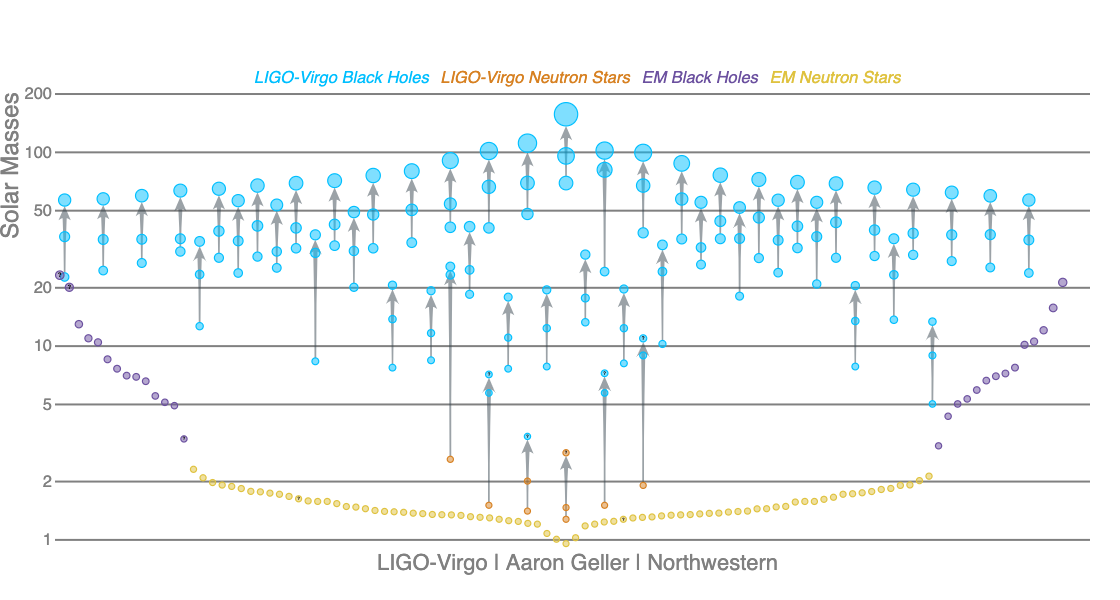
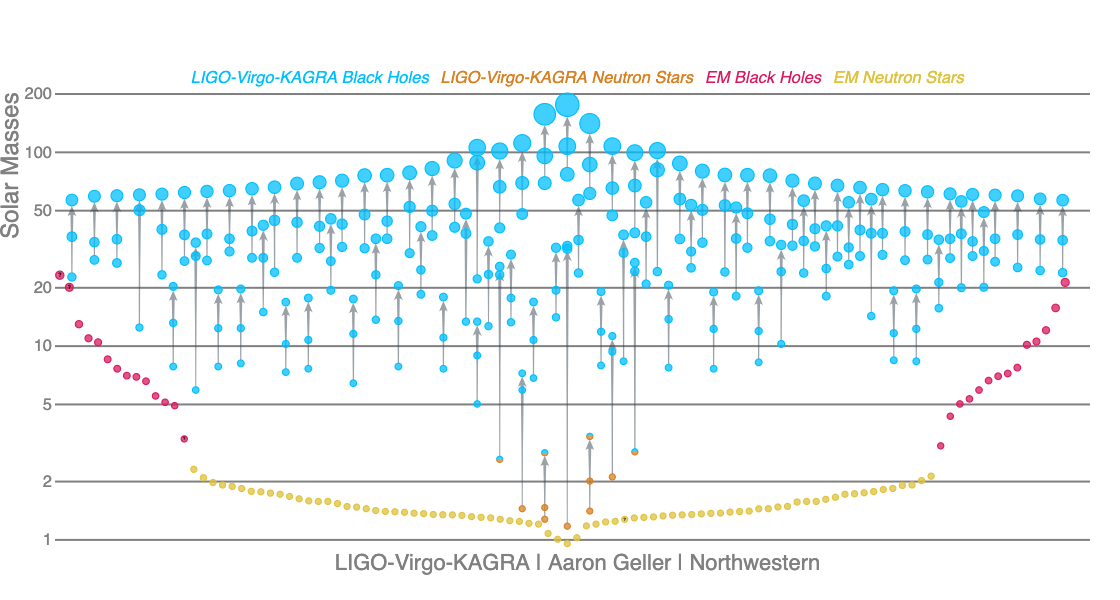
Through line 325, figure 2

diff --git a/RMPreview.tex b/RMPreview.tex
@@ -116,7 +116,7 @@
 \affiliation[4]{organization={kW Engineering}, city={Oakland}, state={California}, postcode={94612}, \country={USA}}
 
 \begin{abstract}
-The LIGO and Virgo detectors have directly observed gravitational waves from mergers of pairs of stellar-mass black holes, along with a smaller number of mergers involving neutron stars.  These observations raise the hope that compact object mergers could be used as a probe of stellar and binary evolution, and perhaps of stellar dynamics. This colloquium-style article summarises the existing observations, describes theoretical predictions for formation channels of merging stellar-mass black-hole binaries along with their rates and observable properties, and presents some of the prospects for gravitational-wave astronomy.
+The LIGO and Virgo detectors have directly observed gravitational waves from mergers of pairs of stellar-mass black holes, along with a smaller number of mergers involving neutron stars.  These observations raise the hope that compact object mergers could be used as a probe of stellar and binary evolution, and perhaps of stellar dynamics. This colloquium-style article summarises the existing observations, describes theoretical predictions for formation channels of merging stellar-mass black-hole binaries along with their rates and observable properties, and presents some prospects for gravitational-wave astronomy.
 \end{abstract}
 
 %\begin{keyword}
@@ -150,7 +150,7 @@ We summarise the existing observations of merging binary black holes and closely
 \subsubsection{The confirmed detections to date}
 During its first observing run, lasting from September of 2015 through January of 2016, the advanced LIGO detector network observed three signals from the mergers of binary black holes:  GW150914 \citep{GW150914}, GW151226 \citep{GW151226} and GW151012 \citep{GW150914:rates,BBH:O1}.  During the second observing run, lasting with some interruptions from November 2016 through August 2017, three further confident binary black hole detections were announced: GW170104 \citep{GW170104},  GW170608 \citep{GW170608}, and GW170814 \citep{GW170814}, the last of these with the participation of the Virgo gravitational-wave observatory \citep{AdvVirgo}.  The first half of the third observing run, which lasted from April to October of 2019, saw detections of nearly 40 binary black hole mergers \citep{GWTC2,Abbott:2021-GWTC-2-1}, among which GW190412 \citep{GW190412}, GW190814 \citep{GW190814}, GW190521 \citep{GW190521} stood out for their mass and mass ratio measurements (see section \ref{sec:GWevents}).  Approximately 30 more binary black holes (the exact numbers here and above depend on the assumed threshold for confident detections) were observed during the second half of the third observing run, from November 2019 through March 2020 \citep{GWTC3}.  Additional candidates were found by search pipelines external to the LIGO-Virgo-KAGRA collaborations in LIGO-Virgo public data \citep{Nitz:2019,Nitz:2021,Venumadhav:2019,Venumadhav:2020}.  
 
-Meanwhile, the observation of gravitational waves from the binary neutron star merger GW170817 \citep{GW170817} was followed up by an unprecedented campaign of electromagnetic observations, leading to detections of a short gamma ray burst, optical kilonova, and an afterglow spanning from radio through X-ray wavelengths \citep{GW170817:GRB,GW170817:MMA}.  Another confident detection of a binary neutron star merger, GW190425 \citep{GW190425}, as well as two mergers of neutron stars with black holes,  GW200105 and GW200115 \citep{GW200105}, did not yield electromagnetic counterparts.  
+Meanwhile, the detection of gravitational waves from the binary neutron star merger GW170817 \citep{GW170817} was followed up by an unprecedented campaign of electromagnetic observations, leading to detections of a short gamma ray burst, optical kilonova, and an afterglow spanning from radio through X-ray wavelengths \citep{GW170817:GRB,GW170817:MMA}.  Another confident detection of a binary neutron star merger, GW190425 \citep{GW190425}, as well as two mergers of neutron stars with black holes,  GW200105 and GW200115 \citep{GW200105}, did not yield electromagnetic counterparts.  
 We shall focus on binary black holes for the remainder of this article.
 
 \subsubsection{Information encoded in gravitational-wave signals}
@@ -165,14 +165,14 @@ The masses of the black-hole binaries observed to date are shown in figure \ref{
 \begin{figure}
 	\centering
 	\includegraphics[width=0.99\textwidth]{Graveyard.png}
-	\caption{The masses (in solar masses, vertical axis) of black holes observed as gravitational-wave sources and reported in the GWTC-2 catalog (blue), as well as masses of black holes in X-ray binaries (purple).  Galactic neutron stars observed as radio pulsars (yellow) and the neutron star candidates in merging compact binaries (orange) appear at the bottom of the figure.  Merger product masses are shown for gravitational-wave detections. Placement on the horizontal axis is arbitrary.  Error bars are indicative of the measurement uncertainty.  Figure courtesy of Aaron Geller, Northwestern University and LIGO-Virgo collaborations.}\label{fig:BHmasses} 
+	\caption{The masses (in solar masses, vertical axis) of black holes observed as gravitational-wave sources and reported in the GWTC-3 catalog (blue), as well as masses of black holes in X-ray binaries (red).  Galactic neutron stars observed as radio pulsars (yellow) and the neutron star candidates in merging compact binaries (orange) appear at the bottom of the figure.  Merger product masses are shown for gravitational-wave detections. Placement on the horizontal axis is arbitrary.  Figure courtesy of Aaron Geller, Northwestern University and LIGO-Virgo-KAGRA collaborations.}\label{fig:BHmasses} 
 \end{figure}
 
-\textbf{Masses:} The individual black-hole masses span a range from $\simeq 2.6 M_\odot$ (assuming the lower-mass object in GW190814 is a black hole rather than a neutron star) to $\simeq 80 M_\odot$ for GW190521 (or more, see \cite{FishbachHolz:2020,NitzCapano:2021}).  There is a significant selection bias  toward detecting more massive systems, because sensitivity to gravitational waves from binary mergers depends on the system mass.  The gravitational-wave amplitude, and hence the maximum (horizon) distance at which a source is detectable, scales as $M_c^{5/6}$ for inspiral-dominated signals. The surveyed volume therefore scales as $M_c^{2.5}$.  Once selection effects are accounted for, the mass distribution for the more massive black hole appears to be consistent with a power-law $p(M) \propto M^{-2.6}$, reminiscent of the stellar initial mass function \citep{Salpeter:1955}, with an additional peak at around $33 M_\odot$.  The vast majority of merging binary black holes, $\approx 97\%$, have both companion masses below $45 M_\odot$ \citep{GWTC2:pop}.   
+\textbf{Masses:} The individual black-hole masses span a range from $\simeq 2.6 M_\odot$ (assuming the lower-mass object in GW190814 is a black hole rather than a neutron star \citep{GW190814}) to $\simeq 80 M_\odot$ for GW190521 \citep{GW190521} (or more, see \cite{FishbachHolz:2020,NitzCapano:2021}) and GW200220\_061928 \citep{GWTC3}.  There is a significant selection bias  toward detecting more massive systems, because sensitivity to gravitational waves from binary mergers depends on the system mass.  The gravitational-wave amplitude, and hence the maximum (horizon) distance at which a source is detectable, scales as $M_c^{5/6}$ for inspiral-dominated signals. The surveyed volume therefore scales as $M_c^{2.5}$.  Once selection effects are accounted for, the mass distribution for the more massive black hole appears to be consistent with a power-law $p(M) \propto M^{-3.4}$, reminiscent of the stellar initial mass function \citep{Salpeter:1955}, with an additional peak at around $34 M_\odot$.  The vast majority of merging binary black holes, $\approx 99\%$, have both companion masses below $45 M_\odot$ \citep{GWTC3:pop}.   
 
-The vast majority of observed merging binary black holes are consistent with having equal-mass components, though the poorly measured mass ratios could still be as extreme as $4:1$ in some cases.  Two observed events, GW190412 with a mass ratio of $3:1$ \citep{GW190412}, and GW190814 with a mass ratio of $9:1$ \citep{GW190814}, are definitely inconsistent with equal masses.  
+Most observed merging binary black holes are consistent with having equal-mass components, though the poorly measured mass ratios span a very broad range in some cases.  Several observed events, such as GW190412 with a mass ratio of $3:1$ \citep{GW190412}, and GW190814 with a mass ratio of $9:1$ \citep{GW190814}, are definitely inconsistent with equal masses.  
 
-\textbf{Black-Hole Spins:} Individual black-hole spins are difficult to measure precisely with gravitational waves.  Most observed mergers are consistent with negligible spins, but some events show evidence of non-zero `effective spin' $\chi_\textrm{eff}$ --- the mass-weighted dimensionless spin along the direction of the orbital angular momentum.  The spin distribution is a topic of active ongoing discussion \citep[e.g.,][]{GWTC2:pop,Roulet:2021,Callister:2021,Galaudage:2021}.  In particular, \citet{Galaudage:2021} conclude that $\sim 80\%$ of merging binary black holes have negligible spins on both components (consistent with zero), while the remaining 20\% have positive and preferentially aligned spins, with no observed events displaying a definite negative $\chi_\textrm{eff}$.  The degree of precession due to spin-orbit misalignment is also unclear; there may be some evidence for it in individual events, such as GW190521 \citep{GW190521}, though other explanations for its signal morphology (e.g., eccentricity, see below) have been proposed.
+\textbf{Black-Hole Spins:} Individual black-hole spins are difficult to measure precisely with gravitational waves.  Most observed mergers are consistent with negligible spins, but some events show evidence of non-zero `effective spin' $\chi_\textrm{eff}$ --- the mass-weighted dimensionless spin along the direction of the orbital angular momentum.  The spin distribution is a topic of active ongoing discussion \citep[e.g.,][]{GWTC2:pop,Roulet:2021,Callister:2021,Galaudage:2021,GWTC3:pop}.  In particular, \citet{Galaudage:2021} conclude that $\sim 80\%$ of merging binary black holes have negligible spins on both components (consistent with zero), while the remaining 20\% have positive and preferentially aligned spins, with no observed events displaying a definite negative $\chi_\textrm{eff}$.  The degree of precession due to spin-orbit misalignment is also unclear; there may be some evidence for it in individual events, such as GW190521 \citep{GW190521}, though other explanations for its signal morphology (e.g., eccentricity, see below) have been proposed.
 
 \textbf{Distances and Sky Locations:} All of the observed binary black hole signals came from median redshifts between $z\sim 0.05$ and $z \sim 0.9$ (distances of around 250 Mpc to 6 Gpc), consistent with the detector sensitivity during the first three observing runs of advanced LIGO \citep{GWTC3}.  With just two operational detectors, LIGO Hanford and LIGO Livingston, for all events prior to GW170814, sources could only be localised to 90\% credible regions spanning hundreds to more than a thousand square degrees on the sky.  The participation of the Virgo instrument in the observation of GW170814 reduced the sky region to only 60 deg$^2$ \citep{GW170814}.   The best-localised binary black hole mergers have 90\% credible sky localisations of only $\approx 20$ deg$^2$ \citep{GWTC2}.  Nonetheless, associations with specific host galaxies are impossible for all observed binary black hole mergers.  
 
@@ -193,30 +193,31 @@ A wide variety of electromagnetic observations inform our understanding of the e
 \item Galactic binary radio pulsars \citep[e.g.,][]{Tauris:2017};
 \item short gamma-ray bursts \citep[e.g.,][]{Berger:2014};
 \item supernovae and long gamma-ray bursts \citep[e.g.,][]{Cantiello:2007,Szecsi:2017,Bavera:2021};
-\item X-ray binaries \citep[e.g.,][]{TaurisvdH:2006}.
+\item X-ray binaries \citep[e.g.,][]{TaurisvdH:2006};
+\item black holes in detached binaries \citep[e.g.,][]{Thompson:2019} and microlensing observations \citep[e.g.,][]{WyrzykowskiMandel:2019}.
 \end{itemize}
-We first focus on X-ray binaries, the type of binary system with the closest connection to merging binary black holes, although only a small minority of black-hole X-ray binaries will ultimately evolve into merging black holes \citep[e.g.,][]{CygnusX3:2012,Neijssel:2020CygX1}. Black-hole X-ray binaries consist of a star transferring mass onto a black-hole companion, leading to the emission of X-ray radiation from the accretion disk surrounding the black hole.  We then discuss detached black-hole binaries, black-hole microlensing observations, and selection effects.
+We first focus on X-ray binaries, the type of binary system with the closest connection to merging binary black holes, although only a small minority of black-hole X-ray binaries will ultimately evolve into merging black holes \citep[e.g.,][]{CygnusX3:2012,Neijssel:2020CygX1}. We then discuss detached black-hole binaries, black-hole microlensing observations, and selection effects.
 
 \subsubsection{X-ray binaries}\label{sec:XRB}
 
-X-ray binaries containing accreting black holes can be divided into two categories, low-mass and high-mass, in reference to the mass of the black hole's companion star. The accretion process differs between the two types: in low-mass X-ray binaries, the tidal field of the black hole is causing mass to stream from the companion on to the black hole in the process known as Roche-lobe overflow, while in high-mass X-ray binaries, the black hole accretes only a fraction of the material (stellar wind) driven off the companion's surface.
+Black-hole X-ray binaries consist of a star transferring mass onto a black-hole companion, leading to the emission of X-ray radiation from the accretion disk surrounding the black hole.  X-ray binaries containing accreting black holes can be divided into two categories, low-mass and high-mass, in reference to the mass of the black hole's companion star. The accretion process differs between the two types: in low-mass X-ray binaries, the tidal field of the black hole is causing mass to stream from the companion on to the black hole in the process known as Roche-lobe overflow, while in high-mass X-ray binaries, the black hole accretes only a fraction of the material (stellar wind) driven off the companion's surface.
 
 \textbf{Black-Hole Masses:} 
 Until recently, black-hole X-ray binaries with dynamical mass measurements provided the only secure measurements of black-hole masses other than the gravitational-wave observations described above, though this is now changing thanks to observations of detached binaries and microlensing data (see section \ref{sec:lensing}).  \citet{Ozel:2010} and \citet{Farr:2011} summarise the mass distribution of black-hole X-ray binaries.  They find a distribution which ranges from $> 20\, M_\odot$ for the heaviest high-mass X-ray binaries to 4 or 5 solar masses for the lightest low-mass X-ray binaries, with a possible mass gap between neutron-star and black-hole masses, though see \cite{Kreidberg:2012} for possible biases in mass measurements of some low-mass X-ray binaries and section \ref{sec:lensing} for evolutionary selection effects.  The uncertainty regarding the radial velocity measurements in high-mass X-ray binaries such as IC10 X-1 \citep{Laycock:2015} mean that the most massive confirmed stellar-mass black hole is Cygnus X-1, with a dynamical mass measurement of $21 \pm 2\, M_\odot$ \citep{MillerJones:2021}.   The measured masses of black holes in X-ray binaries are sketched in figure \ref{fig:BHmasses}, along with the masses of the observed gravitational-wave sources.  This figure does not include the speculative but potentially very exciting evidence for intermediate-mass black holes \citep{MillerColbert:2004,Greene:2019,Paynter:2021}; if few-hundred solar-mass black holes generically exist in globular clusters, they will substitute into merging binaries and ultimately be observable as gravitational-wave sources \citep[e.g.,][]{Mandel:2008,IMBBH:O1}.
 
-\textbf{Black-Hole Spin Magnitudes:} Black-hole X-ray binaries also provide an opportunity for measuring black-hole spins \citep[see][for recent reviews]{MillerMiller:2015,Middleton:2016}.  Continuum fitting of the X-ray flux from the accretion disk and iron K-$\alpha$ line fits to the disk reflection profile can both be used to infer the location of the inner edge of the disk, which is assumed to correspond to the radius of the innermost stable circular orbit, a sensitive function of black-hole spin.  Quasi-periodic oscillations also have the potential to provide spin measurements.  Unfortunately, the underlying physical mechanisms are not fully understood at present, and the inferred spins may suffer from significant systematics \citep[e.g.,][]{Basak:2017,Kawano:2017}.  For example, out of six systems for which both disk continuum and disk reflection spin measurements are available, the two methods are inconsistent at the $3$ or $5$ sigma level for two systems, and for one system the statistical uncertainty is so large as to span nearly the full allowed range from $0$ to $1$ \cite{MillerMiller:2015}.  However, for the remaining three systems with both measurements available, both methods yield spins $\chi \gtrsim 0.9$.  
+\textbf{Black-Hole Spin Magnitudes:} Black-hole X-ray binaries also provide an opportunity for measuring black-hole spins \citep[see][for recent reviews]{MillerMiller:2015,Reynolds:2020}.  Continuum fitting of the X-ray flux from the accretion disk and iron K-$\alpha$ line fits to the disk reflection profile can both be used to infer the location of the inner edge of the disk, which is assumed to correspond to the radius of the innermost stable circular orbit, a sensitive function of black-hole spin.  Quasi-periodic oscillations also have the potential to provide spin measurements.  Unfortunately, the underlying physical mechanisms are not fully understood at present, and the inferred spins may suffer from significant systematics \citep[e.g.,][]{Basak:2017,Kawano:2017}.  Interestingly, all high-mass X-ray binaries with available spin measurements show evidence of rapid dimensionless spins in excess of $\gtrsim 0.85$, where 1 is the spin magnitude of a maximally spinning black hole \citep{Reynolds:2020}.
 
 \textbf{Black-Hole Spin Directions:} We know even less about the spin directions than the spin magnitudes.  Although black-hole spin-orbit alignment is assumed in continuum flux measurements \citep{MillerMiller:2015}, some black-hole X-ray binaries, including GRO J1655-40 \citep{Martin:2008}, 4U 1543-47 \citep{MorningstarMiller:2014} and particularly V4641 Sgr \citep{Orosz:2001,Martin:2008b} appear to indicate that the microquasar jet, presumably aligned with the BH spin axis, is misaligned with the orbit.  Moreover, initial stellar spins in binaries have been observed to be misaligned \citep[e.g.,][]{Albrecht:2009,Albrecht:2014}, though there are opportunities for subsequent realignment during binary evolution, as described below.
 
-\textbf{Inconsistency with Spin Observations from Gravitational-wave Sources?} These three rapidly spinning black holes include two high-mass X-ray binaries: LMC X-1 and Cygnus X-1.  This is significant, because unlike long-lived low-mass X-ray binaries, whose spin magnitudes could be altered by accretion from the companion, especially if they started out with intermediate-mass companions \citep{Podsiadlowski:2003,Fragos:2015}, high-mass X-ray binaries are too short-lived to enable significant spin changes due to accretion \citep{KingKolb:1999}.  Isolated binaries that form binary black holes are expected to go through the high-mass X-ray binary phase during their evolution.  Thus, if the high spin magnitude measurements in black-hole X-ray binaries are to be believed, then the observed high-mass X-ray binaries and merging binary black holes should predominantly sample different evolutionary histories (see section \ref{BHspins}).
+\textbf{Inconsistency with Spin Observations from Gravitational-wave Sources?} The rapidly spinning black holes include all three in high-mass X-ray binaries with accurate mass measurements: Cygnus X-1, LMC X-1 and M33 X-7.  This is significant, because unlike long-lived low-mass X-ray binaries, whose spin magnitudes could be altered by accretion from the companion, especially if they started out with intermediate-mass companions \citep{Podsiadlowski:2003,Fragos:2015}, high-mass X-ray binaries are too short-lived to enable significant spin changes due to accretion \citep{KingKolb:1999}.  Isolated binaries that form binary black holes are expected to go through the high-mass X-ray binary phase during their evolution (though \citet{HiraiMandel:2021} argue that only binaries with optical companions that are close to Roche-lobe overflow may be X-ray bright).  Thus, if the high spin magnitude measurements in black-hole X-ray binaries are to be believed, then the observed high-mass X-ray binaries and merging binary black holes should predominantly sample different evolutionary histories (see section \ref{BHspins}).
 
 \subsubsection{Other electromagnetic black hole mass measurements} \label{sec:lensing}
 
-\textbf{Detached binaries:} Until recently, only X-ray binaries allowed accurate mass measurements of stellar-mass black holes.  However, this has recently changed with observations of wide binaries with a luminous companion detached from a non-accreting black hole.  Examples of such observations include two $\sim 3\, M_\odot$ black holes in detached binaries \citep{Thompson:2019,Jayasinghe:2021} along with several black holes with lower limit mass measurements in detached binaries observed in a globular cluster \citep{Giesers:2019}.  Surveys like Gaia may detect hundreds of detached black hole binaries \citep[e.g.,][]{Chawla:2021}.  However, the case of LB-1, which was initially thought to contain an extremely massive black hole in a wide binary, highlights some of the challenges of accurately measuring black hole masses in detached systems \citep{Liu:2019,Eldridge:2020,AbdulMassih:2020,Shenar:2020}.   
+\textbf{Detached binaries:} Until recently, only X-ray binaries allowed accurate mass measurements of stellar-mass black holes.  However, this has recently changed with observations of wide binaries with a luminous companion detached from a non-accreting black hole.  Examples of such observations include two $\sim 3\, M_\odot$ black holes in detached binaries \citep{Thompson:2019,Jayasinghe:2021} along with several black holes in detached binaries in globular clusters \citep{Giesers:2019,Saracino:2021}.  Surveys like Gaia may detect hundreds of detached black hole binaries \citep[e.g.,][]{Chawla:2021}.  However, the case of LB-1, which was initially thought to contain an extremely massive black hole in a wide binary, highlights some of the challenges of accurately measuring black hole masses in detached systems \citep{Liu:2019,Eldridge:2020,AbdulMassih:2020,Shenar:2020}.   
 
-\textbf{Microlensing:} Microlensing observations provide a tool for measuring the masses of single black holes.  When such black holes pass between a luminous star and the observer, they temporarily lens the star, increasing its luminosity while the alignment is roughly within the Einstein ring.  Mircolensing measurements, together with gravitational-wave and detached black-hole binary observations, suggest that there is no evidence for a mass gap between neutron stars and black holes \citep{WyrzykowskiMandel:2019, Mroz:2021}.  However, there is a possible degeneracy between lower lens masses and higher lens-source relative velocities, since both reduce the transient duration; thus, the low-mass microlensing black-hole candidates could be consistent with higher-mass black holes receiving natal kicks of $\gtrsim 80$ km s$^{-1}$.
+\textbf{Microlensing:} Microlensing observations provide a tool for measuring the masses of single black holes.  When such black holes pass between a luminous star and the observer, they temporarily lens the star, increasing its luminosity while the alignment is roughly within the lens's Einstein ring.  Mircolensing measurements, together with gravitational-wave and detached black-hole binary observations, suggest that there is no evidence for a mass gap between neutron stars and black holes \citep{WyrzykowskiMandel:2019, Mroz:2021}.  However, there is a possible degeneracy between lower lens masses and higher lens-source relative velocities, since both reduce the transient duration; thus, the low-mass microlensing black-hole candidates could be consistent with higher-mass black holes receiving natal kicks of $\gtrsim 80$ km s$^{-1}$.
 
-\textbf{Selection effects:} Finally, it is worth remembering that all observations are likely to suffer from a range of selection effects.  These could be Malmquist biases which favour observations of the brightest or loudest sources, such as the enhanced detectability of more massive binaries in gravitational-wave data or of more rapidly accreting X-ray binaries (though see \citet{HiraiMandel:2021}, who point out that more complex detectability thresholds related to wind morphology may be relevant for high-mass X-ray binaries).  Alternatively, they could be evolutionary selection effects which can skew the observed populations; for example, X-ray binaries may contain few low-mass black holes, creating an impression of a mass gap between neutron star and black hole masses, if low-mass black holes get larger natal kicks that tend to disrupt binaries \citep{Mandel:2020}.
+\textbf{Selection effects:} Finally, it is worth remembering that all observations are likely to suffer from a range of selection effects.  These could be Malmquist biases which favour observations of the brightest or loudest sources, such as the enhanced detectability of more massive binaries in gravitational-wave data or of more rapidly accreting X-ray binaries (though more complex detectability thresholds related to wind morphology may be relevant for high-mass X-ray binaries \citep{HiraiMandel:2021}).  Alternatively, they could be evolutionary selection effects which can skew the observed populations; for example, X-ray binaries may contain few low-mass black holes, creating an impression of a mass gap between neutron star and black hole masses, if low-mass black holes get larger natal kicks that tend to disrupt binaries \citep{Mandel:2020}.
 
 
 \section{Formation scenarios}\label{form}
@@ -227,10 +228,10 @@ When the detection of GW150914 was first announced, many were surprised that it 
 \subsection{The Orbital Separation Question}
 
 
-\textbf{Only very tight binaries can merge via gravitational waves.} Gravitational-wave emission is a very strong function of separation. During a compact binary merger, the luminosity in gravitational waves is a few thousandths of the Planck luminosity, $c^5/G$ \citep[e.g.,][]{Cardoso:2018}; at nearly $10^{57}$ ergs per second, such mergers ``outshine'' all the stars in the visible Universe combined. But because gravitational-wave luminosity is inversely proportional to the fifth power of the binary separation \citep{Peters:1964}, widely separated binaries lose energy very slowly and undergo only negligible inspiral over billions of years. Only very close binaries can be brought to merger by gravitational waves within the age of the universe; \autoref{fig:periapsis} shows the maximum initial separation for an equal-mass binary to merge on this timescale. For the two $\sim 30 M_\odot$ black holes responsible for GW150914, the initial separation must have been less than $\sim 50 R_\odot$ -- just a quarter of the distance from the Earth to the Sun -- if the merger was driven by gravitational-wave emission alone.
+\textbf{Only very tight binaries can merge via gravitational waves.} Gravitational-wave emission is a very strong function of orbital separation. During a compact binary merger, the luminosity in gravitational waves is a few thousandths of the Planck luminosity, $c^5/G$ \citep[e.g.,][]{Cardoso:2018}; at nearly $10^{57}$ ergs per second, such mergers ``outshine'' all the stars in the visible Universe combined. But because gravitational-wave luminosity is inversely proportional to the fifth power of the binary separation \citep{Peters:1964}, widely separated binaries lose energy very slowly and undergo only negligible inspiral over billions of years. Only very close binaries can be brought to merger by gravitational waves within the age of the universe; \autoref{fig:periapsis} shows the maximum initial separation for an equal-mass binary to merge on this timescale. For the two $\sim 30 M_\odot$ black holes responsible for GW150914, the initial separation must have been less than $\sim 50 R_\odot$ -- just a quarter of the distance from the Earth to the Sun -- if the merger was driven by gravitational-wave emission alone.
 
 
-\textbf{But the black holes' parent stars cannot get so close.} Stars expand as they evolve. Even our Sun will reach roughly an astronomical unit in size during its giant phase; the stars that leave behind black holes (above $\sim 20 M_\odot$  at birth) may reach thousands of solar radii at their maximal extent. The maximum stellar radius as a function of initial mass is plotted in \autoref{fig:Rmax}. There appears to be a problem. If the parent stars begin life in a close binary with a separation from which gravitational waves could bring their remnants together, the stars will expand to sizes larger than their separation as they evolve, and we might therefore expect that they would merge long before they collapse into black holes. If they start sufficiently far apart to avoid merger before collapse, their remnant binaries will take many millions of times longer than the age of the Universe to merge. In either case, no gravitational-wave sources would exist today. 
+\textbf{But the black holes' parent stars cannot get so close.} Stars expand as they evolve. Even our Sun will reach roughly an astronomical unit in size during its giant phase; the stars that leave behind black holes (above $\sim 20 M_\odot$  at birth) may reach thousands of solar radii at their maximal extent. The maximum stellar radius as a function of initial mass is plotted in \autoref{fig:Rmax}. There appears to be a problem. If the parent stars begin life in a close binary with a separation from which gravitational waves could bring their remnants together, the stars will expand to sizes much larger than their separation as they evolve, and we might therefore expect that they would merge long before they collapse into black holes. If they start sufficiently far apart to avoid merger before collapse into black holes, their remnant binaries will take many millions of times longer than the age of the Universe to merge. In either case, no gravitational-wave sources would exist today. 
 
 \textbf{The problem is already there at birth.} In fact, for reasonable models of wind-driven mass loss and mass loss during supernovae, even the initial stellar radii at the start of the main sequence are too large to fit into a binary that could merge within the age of the Universe just through gravitational-wave emission.  The black `Roche Lobe' curve in \autoref{fig:Rmax} shows the maximum size that a star could have in order to fit into a circular, merging equal-mass binary (see \autoref{fig:periapsis}).  This size is smaller than the zero-age main sequence radius for all stellar masses shown in the figure: the separation problem thus exists even without accounting for the exacerbating factors of stellar expansion or binary widening through mass loss.
 
@@ -524,5 +525,7 @@ Vicky: refs on p. 4 (list of other observables), 5 (XRBs and their discussion), 
 isolated channel: Srinivasan 1989? BBHs: Braginsky & Thorne (check Levin's FB)?
 
 AGN disks -- see Bence
+
+\citet{FishbachKalogera:2021}
 
 
